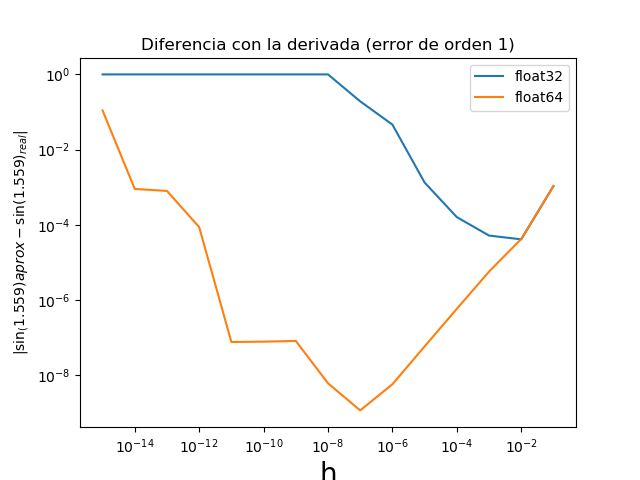
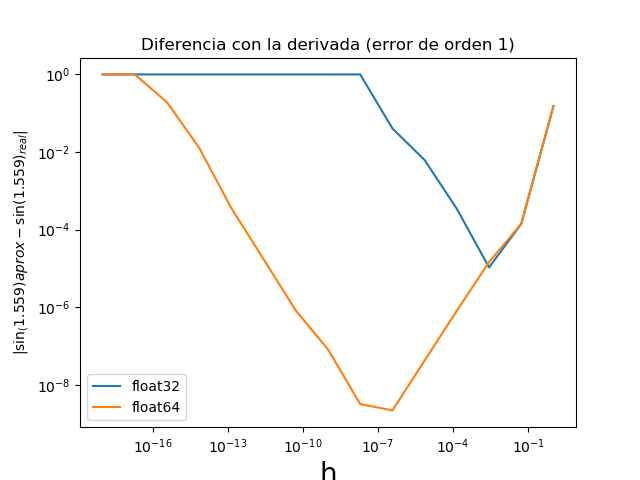
Arreglo h P1
Se extiende el logspace de los h, antes era de 10-1 a 10-15, ahora de 10-0 a 10-18, para alcanzar a notar el eps de float64

diff --git a/01-tarea-p1.py b/01-tarea-p1.py
@@ -63,7 +63,7 @@ seno = m.sin(k)  #valor real al que se quiere llegar con la aproximacion con foa
 #que la aproximacion sea cercana al valor real. Para esto, se probara con potencias
 #negativas de 10.
 
-H = np.logspace(-1, -15, 15, base=10.)   #vector de h
+H = np.logspace(-0, -18, 15, base=10.)   #vector de h
 
 #Primero se haran los graficos de las derivadas para cada h en H, y se comparara con el valor de sin(1.559)
 
@@ -137,7 +137,7 @@ plt.show()
 
 #Grafico orden 4
 
-"""
+
 plt.title("Diferencia con la derivada (error de orden 4)")
 
 plt.plot(H, diferencia_orden_4_float32, label="float32")
@@ -152,4 +152,3 @@ plt.ylabel('$|\sin_(1.559){aprox} - \sin(1.559)_{real}|$', fontsize=10)
 plt.legend()
 plt.savefig('diferencia_orden_4.png')
 plt.show()
-"""

diff --git a/01-tarea-p2.py b/01-tarea-p2.py
@@ -210,3 +210,5 @@ print('integral_parte2 =', integral_parte2)
 
 
 
+
+
